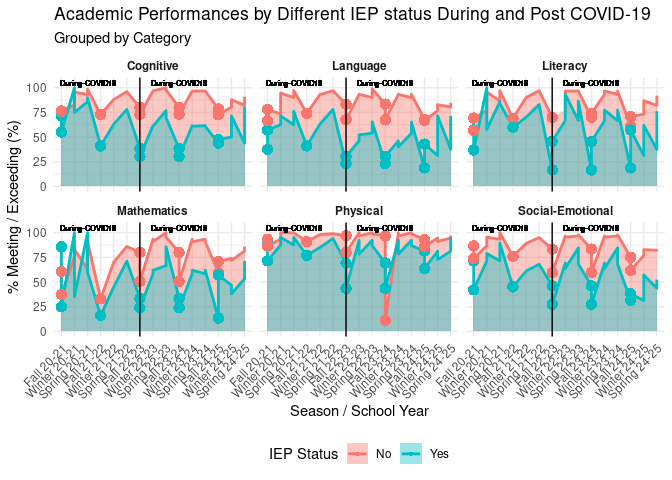
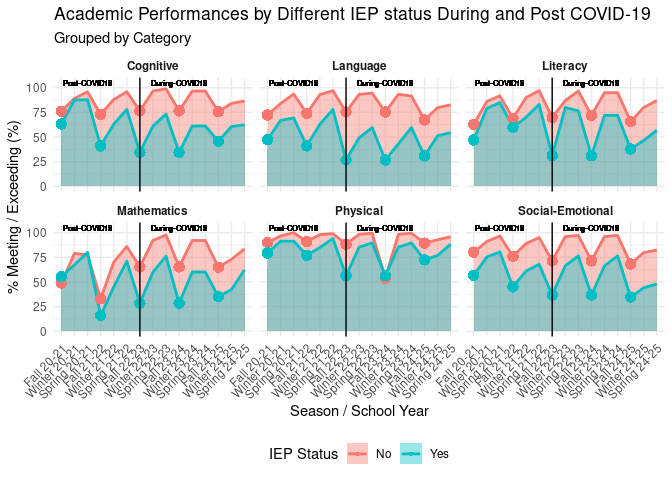
Clean IEP data

diff --git a/proposal/proposal.md b/proposal/proposal.md
@@ -493,30 +493,16 @@ all_year <- general_data_table |>
 IEP_data <- all_year |>
   mutate(is_fall = (`season` == "Fall"))
 
-IEP_data
-```
+IEP_data <- IEP_data |>
+  group_by(Category, label, sort_num, is_fall, IEP) |>
+  summarise(
+    `Avg IEP Meeting Exceeding` = mean(`% Meeting / Exceeding`, na.rm = TRUE),
+    .groups = "drop"
+  )
 
-    ## # A tibble: 324 × 12
-    ##    Category         `# Children` Age   IEP   `# Meeting / Exceeding`
-    ##    <chr>                   <dbl> <chr> <chr>                   <dbl>
-    ##  1 Social-Emotional            7 3-4   Yes                         5
-    ##  2 Social-Emotional           19 4-5   Yes                         8
-    ##  3 Social-Emotional           30 3-4   No                         26
-    ##  4 Social-Emotional           65 4-5   No                         48
-    ##  5 Physical                    8 3-4   Yes                         7
-    ##  6 Physical                   21 4-5   Yes                        15
-    ##  7 Physical                   30 3-4   No                         28
-    ##  8 Physical                   67 4-5   No                         58
-    ##  9 Language                    8 3-4   Yes                         3
-    ## 10 Language                   21 4-5   Yes                        12
-    ## # ℹ 314 more rows
-    ## # ℹ 7 more variables: `% Meeting / Exceeding` <dbl>, `Time Period` <chr>,
-    ## #   year <chr>, season <chr>, label <fct>, sort_num <dbl>, is_fall <lgl>
-
-``` r
 iep_graph <- ggplot(
   IEP_data,
-  aes(x = `label`, y = `% Meeting / Exceeding`, fill = IEP, group = IEP)
+  aes(x = `label`, y = `Avg IEP Meeting Exceeding`, fill = IEP, group = IEP)
 ) +
   geom_area(position = "identity", alpha = 0.4) +
   geom_line(aes(color = IEP), size = 1) +
@@ -526,7 +512,7 @@ iep_graph <- ggplot(
     aes(x = "Fall 23-24", y = 105, label = "During-COVID19"),
     size = 2) +
   geom_text( 
-    aes(x = "Spring 20-21", y = 105, label = "During-COVID19"),
+    aes(x = "Spring 20-21", y = 105, label = "Post-COVID19"),
     size = 2) +
   facet_wrap(~ Category) +
   labs(
@@ -548,10 +534,7 @@ iep_graph <- ggplot(
 iep_graph
 ```
 
-    ## Warning: Removed 1 row containing non-finite outside the scale range
-    ## (`stat_align()`).
-
-    ## Warning: Removed 217 rows containing missing values or values outside the scale range
+    ## Warning: Removed 120 rows containing missing values or values outside the scale range
     ## (`geom_point()`).
 
 ![](proposal_files/figure-gfm/unnamed-chunk-3-1.png)<!-- -->
@@ -560,24 +543,5 @@ iep_graph
 ggsave("iep_impact.png", iep_graph, width = 15, height = 10, dpi = 300)
 ```
 
-    ## Warning: Removed 1 row containing non-finite outside the scale range (`stat_align()`).
-    ## Removed 217 rows containing missing values or values outside the scale range
+    ## Warning: Removed 120 rows containing missing values or values outside the scale range
     ## (`geom_point()`).
-
-
-
-    all_year <- general_data_table |>
-      mutate(IEP = na_if(IEP, "N/A")) |>
-      filter(!is.na(IEP))
-
-    IEP_data <- all_year |>
-      filter(!is.na(IEP)) |>
-      group_by(Category, IEP, `Time Period`) |>
-      summarise(
-        n_children = sum(`# Children`, na.rm = TRUE),
-        n_meeting  = sum(`# Meeting / Exceeding`, na.rm = TRUE),
-        .groups = "drop"
-      ) |>
-      mutate(pct_meeting = 100 * n_meeting / n_children
-      ) |>
-      filter(!is.na(pct_meeting))
